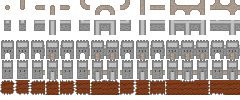
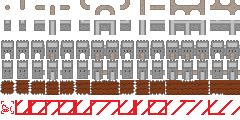
added a way to remove whole areas

diff --git a/game_managment.py b/game_managment.py
@@ -9,6 +9,47 @@ from pygame.locals import (KEYDOWN,
                            K_F3)
 
 
+class TimeManager:
+    def __init__(self, gw):
+        self.time = 0
+        self.tick = 0
+        self.time = [0, 0, 0]
+        self.elapsed = 1
+        self.start = time.time()
+        self.end = 0
+        self.tribute = 40
+        self.gold = gw.STARTING_GOLD
+
+    def time_lapse(self, gw):
+        self.tick += 1
+        if self.tick >= gw.TICK_RATE:
+            self.tick = 0
+            self.time[0] += 1
+            self.end = time.time()
+            self.elapsed = self.end - self.start
+            self.start = time.time()
+            if self.time[0] >= 24:
+                self.time[0] = 0
+                self.time[1] += 1
+                if self.time[1] >= 7:
+                    self.time[1] = 0
+                    self.time[2] += 1
+                    gw.time_manager.gold -= self.tribute
+                    gw.sounds["ignite_oil"].play()
+                    self.tribute = int(self.tribute ** 1.2)
+
+    def to_json(self):
+        return {
+            "time": self.time,
+            "tribute": self.tribute
+        }
+
+    def from_json(self, json_dict):
+        self.time = json_dict["time"]
+        self.tribute = json_dict["tribute"]
+        return self
+
+
 def handle_events(gw, event):
     if event.type == QUIT:
         gw.running = False
@@ -29,8 +70,10 @@ def handle_events(gw, event):
             gw.cursor.is_lmb_pressed = False
             gw.cursor.is_lmb_held_down = False
             if gw.cursor.is_dragging and gw.button_handler.hovered_button is None:
-                if isinstance(gw.cursor.held_structure, Farmland):
-                    make_farmland_field(gw)
+                if gw.cursor.is_in_demolish_mode:
+                    remove_area(gw)
+                elif isinstance(gw.cursor.held_structure, Farmland):
+                    make_field(gw)
                 else:
                     make_snapper_line(gw)
                 gw.cursor.is_dragging = False
@@ -163,7 +206,7 @@ def place_structure(gw, is_lmb_held_down):
                     y.update_profit(gw)
 
 
-def remove_structure(gw):
+def remove_structure(gw, pos):
     """
     Function that is responsible for removing structures from the map.
     The structure that will be removed is the one that is on a tile that the gw.cursor's on.
@@ -178,34 +221,41 @@ def remove_structure(gw):
 
         :param gw: Gameworld object
     """
-    if isinstance(gw.struct_map[gw.cursor.pos[0]][gw.cursor.pos[1]], Structure):
-        gw.fx_channel.play(gw.sounds["buildingwreck_01"])
-        if isinstance(gw.struct_map[gw.cursor.pos[0]][gw.cursor.pos[1]], Snapper):
-            for direction, direction_rev, x, y in zip(('N', 'E', 'S', 'W'), ('S', 'W', 'N', 'E'),
-                                                      (0, -1, 0, 1), (1, 0, -1, 0)):
-                if not gw.is_out_of_bounds(gw.cursor.pos[0] + x, gw.cursor.pos[1] + y) and \
-                        isinstance(gw.struct_map[gw.cursor.pos[0] + x][gw.cursor.pos[1] + y], Snapper) and \
-                        gw.struct_map[gw.cursor.pos[0]][gw.cursor.pos[1]].snapsto[direction_rev] == \
-                        gw.struct_map[gw.cursor.pos[0] + x][gw.cursor.pos[1] + y].snapsto[direction]:
-                    gw.struct_map[gw.cursor.pos[0] + x][gw.cursor.pos[1] + y].update_edges(gw, direction, -1)
+    if not isinstance(gw.struct_map[pos[0]][pos[1]], Structure):
+        return False
+    if isinstance(gw.struct_map[pos[0]][pos[1]], Snapper):
+        for direction, direction_rev, x, y in zip(('N', 'E', 'S', 'W'), ('S', 'W', 'N', 'E'),
+                                                  (0, -1, 0, 1), (1, 0, -1, 0)):
+            if not gw.is_out_of_bounds(pos[0] + x, pos[1] + y) and \
+                    isinstance(gw.struct_map[pos[0] + x][pos[1] + y], Snapper) and \
+                    gw.struct_map[pos[0]][pos[1]].snapsto[direction_rev] == \
+                    gw.struct_map[pos[0] + x][pos[1] + y].snapsto[direction]:
+                gw.struct_map[pos[0] + x][pos[1] + y].update_edges(gw, direction, -1)
 
-        if isinstance(gw.struct_map[gw.cursor.pos[0]][gw.cursor.pos[1]], Wall):
-            gw.wall_set.remove(tuple(gw.cursor.pos))
-            detect_surrounded_tiles(gw)
-        removed = True
+    if isinstance(gw.struct_map[pos[0]][pos[1]], Wall):
+        gw.wall_set.remove(tuple(pos))
+        detect_surrounded_tiles(gw)
+    removed = True
 
-        gw.struct_map[gw.cursor.pos[0]][gw.cursor.pos[1]].kill()
-        covered_tiles = gw.struct_map[gw.cursor.pos[0]][gw.cursor.pos[1]].covered_tiles
-        for rel in covered_tiles:
-            gw.struct_map[gw.cursor.pos[0] + rel[0]][gw.cursor.pos[1] + rel[1]] = 0
-        for struct in gw.structs:
-            if gw.surrounded_tiles[struct.pos[0]][struct.pos[1]] == 2:
-                struct.inside = True
-            else:
-                struct.inside = False
-            if isinstance(struct, House) and \
-                    abs(struct.pos[0] - gw.cursor.pos[0]) + abs(struct.pos[0] - gw.cursor.pos[0]) <= 6:
-                struct.update_profit(gw)
-    else:
-        removed = False
+    gw.struct_map[pos[0]][pos[1]].kill()
+    covered_tiles = gw.struct_map[pos[0]][pos[1]].covered_tiles
+    for rel in covered_tiles:
+        gw.struct_map[pos[0] + rel[0]][pos[1] + rel[1]] = 0
+    for struct in gw.structs:
+        if gw.surrounded_tiles[struct.pos[0]][struct.pos[1]] == 2:
+            struct.inside = True
+        else:
+            struct.inside = False
+        if isinstance(struct, House) and \
+                abs(struct.pos[0] - pos[0]) + abs(struct.pos[0] - pos[0]) <= 6:
+            struct.update_profit(gw)
     return removed
+
+
+def remove_area(gw):
+    already_made_sound = False
+    for x in range(gw.cursor.ghost.rect.left, gw.cursor.ghost.rect.right, gw.tile_s):
+        for y in range(gw.cursor.ghost.rect.top, gw.cursor.ghost.rect.bottom, gw.tile_s):
+            if remove_structure(gw, [x // gw.tile_s, y // gw.tile_s]) and not already_made_sound:
+                gw.fx_channel.play(gw.sounds["buildingwreck_01"])
+                already_made_sound = True

diff --git a/cursor.py b/cursor.py
@@ -38,11 +38,9 @@ class Cursor(pg.sprite.Sprite):
         self.rect.y = self.pos[1] * gw.tile_s
 
     def draw(self, gw):
-        if self.is_in_demolish_mode:
-            gw.scene.surf.blit(self.surf_demolish, self.rect)
-        else:
+        if not self.is_in_demolish_mode:
             gw.scene.surf.blit(self.surf, self.rect)
-        if self.held_structure is not None:
+        if self.ghost is not None:
             self.ghost.update(gw)
             gw.scene.surf.blit(self.ghost.surf, self.ghost.rect)
 
@@ -63,19 +61,22 @@ class Cursor(pg.sprite.Sprite):
         elif state == "off":
             mode_state = False
 
+        if mode == "demolish":
+            self.is_in_demolish_mode = mode_state
+        if mode == "drag_build":
+            self.is_in_drag_build_mode = mode_state
+
         if mode_state:
             mode_button.is_locked = True
             mode_button.is_held_down = True
             if mode == "demolish":
                 self.held_structure = None
+                self.ghost = Ghost(gw)
         else:
+            if mode == "demolish":
+                self.ghost = None
             mode_button.is_locked = False
             mode_button.is_held_down = False
-
-        if mode == "demolish":
-            self.is_in_demolish_mode = mode_state
-        if mode == "drag_build":
-            self.is_in_drag_build_mode = mode_state
 
     def to_json(self):
         return {
@@ -85,7 +86,10 @@ class Cursor(pg.sprite.Sprite):
 
 class Ghost:
     def __init__(self, gw):
-        self.surf = gw.cursor.held_structure.surf
+        if not gw.cursor.is_in_demolish_mode:
+            self.surf = gw.cursor.held_structure.surf
+        else:
+            self.surf = gw.spritesheet.get_snapper_surf(gw, (), "demolish")
         self.surf.set_alpha(128)
         self.pos = gw.cursor.pos
         self.drag_starting_pos = gw.cursor.pos.copy()
@@ -95,7 +99,10 @@ class Ghost:
     def update(self, gw):
         self.pos = gw.cursor.pos
         if not gw.cursor.is_dragging:
-            self.surf = gw.cursor.held_structure.surf
+            if not gw.cursor.is_in_demolish_mode:
+                self.surf = gw.cursor.held_structure.surf
+            else:
+                self.surf = gw.spritesheet.get_snapper_surf(gw, (), "demolish")
             self.rect = self.surf.get_rect(bottomright=(gw.tile_s * (self.pos[0] + 1), gw.tile_s * (self.pos[1] + 1)))
 
         else:
@@ -104,19 +111,21 @@ class Ghost:
             self.surf.set_colorkey((0, 0, 0), RLEACCEL)
             self.rect = self.surf.get_rect(topleft=(min(self.pos[0], self.drag_starting_pos[0]) * gw.tile_s,
                                                     min(self.pos[1], self.drag_starting_pos[1]) * gw.tile_s))
-            if isinstance(gw.cursor.held_structure, Farmland):
-                self.create_farmland_field(gw)
+            if gw.cursor.is_in_demolish_mode:
+                self.draw_area(gw, "demolish")
+            elif isinstance(gw.cursor.held_structure, Farmland):
+                self.draw_area(gw, "farmland")
             elif type(gw.cursor.held_structure) in {Road, Wall}:
                 self.create_snapper_line(gw)
         self.surf.set_alpha(128)
 
-    def create_farmland_field(self, gw):
+    def draw_area(self, gw, name):
         if self.rect.width == gw.tile_s or self.rect.height == gw.tile_s:
-            self.handle_edge_cases(gw, "farmland")
+            self.handle_edge_cases(gw, name)
         else:
             for x in range(gw.tile_s, self.rect.width - gw.tile_s, gw.tile_s):
                 for y in range(gw.tile_s, self.rect.height - gw.tile_s, gw.tile_s):
-                    self.surf.blit(gw.spritesheet.get_snapper_surf(gw, ('N', 'E', 'S', 'W'), "farmland"), (x, y))
+                    self.surf.blit(gw.spritesheet.get_snapper_surf(gw, ('N', 'E', 'S', 'W'), name), (x, y))
 
             for edge, const_dimension, direction in zip(('ESW', 'NSW', 'NEW', 'NES'),
                                                         (0, self.rect.width - gw.tile_s,
@@ -132,13 +141,13 @@ class Ghost:
                         blit_pos = (pos, const_dimension)
                     else:
                         blit_pos = (const_dimension, pos)
-                    self.surf.blit(gw.spritesheet.get_snapper_surf(gw, tuple(edge), "farmland"), blit_pos)
+                    self.surf.blit(gw.spritesheet.get_snapper_surf(gw, tuple(edge), name), blit_pos)
 
             for corner, blit_pos in zip(('SW', 'NW', 'NE', 'ES'),
                                         ((self.rect.width - gw.tile_s, 0),
                                          (self.rect.width - gw.tile_s, self.rect.height - gw.tile_s),
                                          (0, self.rect.height - gw.tile_s), (0, 0))):
-                self.surf.blit(gw.spritesheet.get_snapper_surf(gw, tuple(corner), "farmland"), blit_pos)
+                self.surf.blit(gw.spritesheet.get_snapper_surf(gw, tuple(corner), name), blit_pos)
 
     def create_snapper_line(self, gw):
         self.sides_to_draw.clear()

diff --git a/structures.py b/structures.py
@@ -4,47 +4,6 @@ import time
 from pygame.locals import RLEACCEL
 
 
-class TimeManager:
-    def __init__(self, gw):
-        self.time = 0
-        self.tick = 0
-        self.time = [0, 0, 0]
-        self.elapsed = 1
-        self.start = time.time()
-        self.end = 0
-        self.tribute = 40
-        self.gold = gw.STARTING_GOLD
-
-    def time_lapse(self, gw):
-        self.tick += 1
-        if self.tick >= gw.TICK_RATE:
-            self.tick = 0
-            self.time[0] += 1
-            self.end = time.time()
-            self.elapsed = self.end - self.start
-            self.start = time.time()
-            if self.time[0] >= 24:
-                self.time[0] = 0
-                self.time[1] += 1
-                if self.time[1] >= 7:
-                    self.time[1] = 0
-                    self.time[2] += 1
-                    gw.time_manager.gold -= self.tribute
-                    gw.sounds["ignite_oil"].play()
-                    self.tribute = int(self.tribute ** 1.2)
-
-    def to_json(self):
-        return {
-            "time": self.time,
-            "tribute": self.tribute
-        }
-
-    def from_json(self, json_dict):
-        self.time = json_dict["time"]
-        self.tribute = json_dict["tribute"]
-        return self
-
-
 class Structure(pg.sprite.Sprite):
     def __init__(self, xy, gw, *args):
         super().__init__()

diff --git a/graphics.py b/graphics.py
@@ -7,7 +7,7 @@ class Spritesheet:
         self.edges_sorted = [(), ('N',), ('E',), ('S',), ('W',), ('N', 'E'), ('E', 'S'), ('S', 'W'), ('N', 'W'),
                            ('N', 'S'), ('E', 'W'), ('N', 'E', 'S'), ('E', 'S', 'W'),
                            ('N', 'S', 'W'), ('N', 'E', 'W'), ('N', 'E', 'S', 'W')]
-        self.snappers_sorted = ["road", "wall", "vgate", "hgate", "farmland"]
+        self.snappers_sorted = ["road", "wall", "vgate", "hgate", "farmland", "demolish"]
         self.snappers_sheet = pg.image.load("assets/snapper_sheet.png")
         # self.structures_sheet = pg.image.load("assets/structures_sheet.png")
 
@@ -53,6 +53,7 @@ class Entities(pg.sprite.Group):
             if spr.rect.colliderect(scene.rect):
                 scene.surf.blit(spr.surf, spr.rect)
         self.lostsprites = []
+
 
 def zoom(gw, button, factor):
     if (gw.tile_s <= 15 and factor < 1) or (gw.tile_s >= 120 and factor > 1):

diff --git a/hud.py b/hud.py
@@ -497,9 +497,9 @@ class BuildMenu(HUD):
         gw.buttons.update(self.buttons)
 
     def assign(self, gw, button, struct_type):
+        gw.cursor.change_mode(gw, None, "demolish", "off")
         gw.cursor.held_structure = struct_type([0, 0], gw)
         gw.cursor.ghost = Ghost(gw)
-        gw.cursor.change_mode(gw, None, "demolish", "off")
         if struct_type in {Farmland, Road, Wall}:
             gw.cursor.change_mode(gw, None, "drag_build", "on")
         else:

diff --git a/main.py b/main.py
@@ -33,7 +33,9 @@ if __name__ == "__main__":
                     place_structure(gw, gw.cursor.is_lmb_held_down)
 
             elif gw.cursor.is_in_demolish_mode:
-                remove_structure(gw)
+                if not gw.cursor.is_lmb_held_down:
+                    gw.cursor.is_dragging = True
+                    gw.cursor.ghost.drag_starting_pos = gw.cursor.pos.copy()
             gw.cursor.is_lmb_held_down = True
 
         gw.scene.move_screen(gw)

diff --git a/algorithms.py b/algorithms.py
@@ -125,7 +125,7 @@ def detect_surrounded_tiles(gw):
     return
 
 
-def make_farmland_field(gw):
+def make_field(gw):
     topleft_corner = [x // gw.tile_s for x in gw.cursor.ghost.rect.topleft]
     bottomright_corner = [x // gw.tile_s - 1 for x in gw.cursor.ghost.rect.bottomright]
     visited = [[False for _ in range(0, gw.cursor.ghost.rect.height, gw.tile_s)]

diff --git a/gameworld.py b/gameworld.py
@@ -1,6 +1,7 @@
 import os
 from hud import *
 from graphics import *
+from game_managment import TimeManager
 from cursor import Cursor
 from pygame.locals import (RLEACCEL,
                            K_t,
